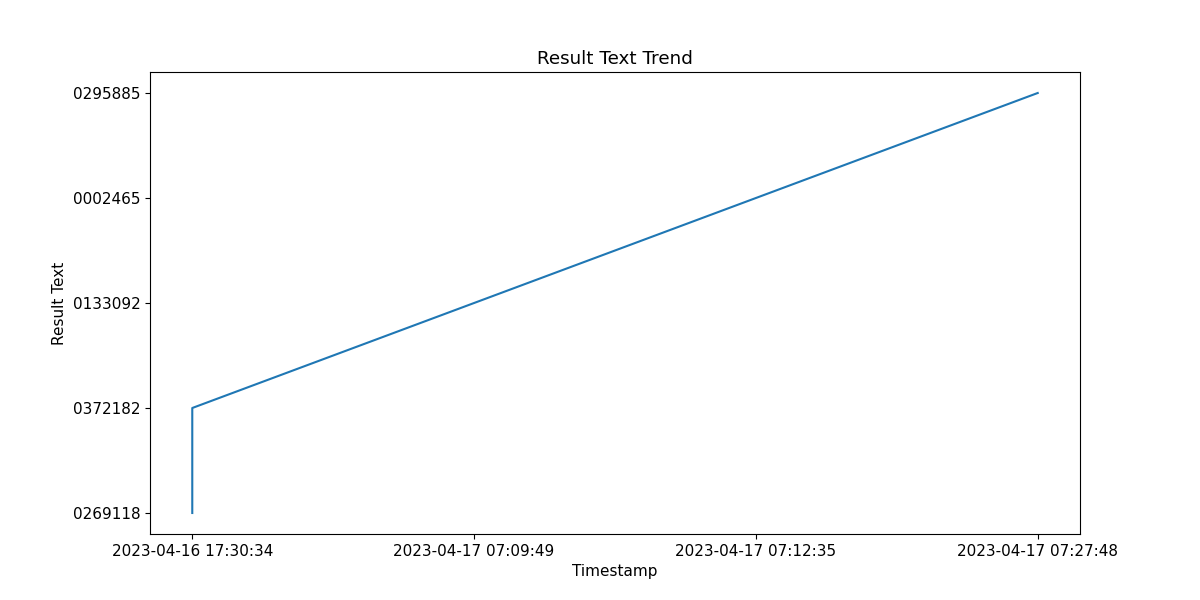
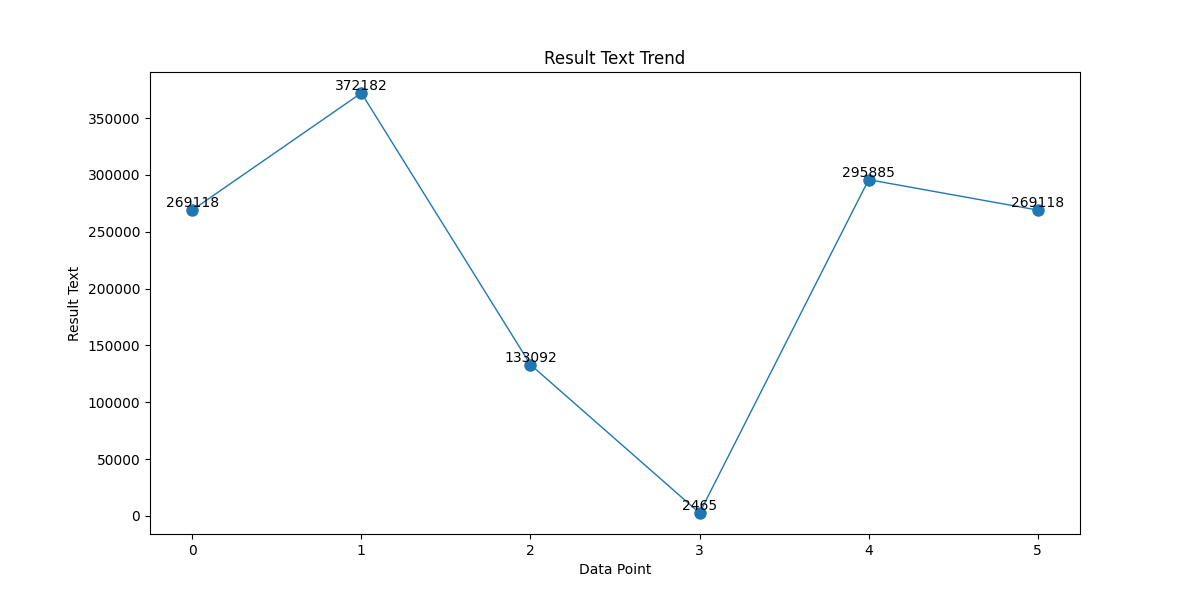
fixin trend line plot

diff --git a/app.py b/app.py
@@ -81,18 +81,18 @@ def index():
 @app.route("/history")
 def history():
     df = pd.read_csv("ocr_results.csv")
-    df = df.dropna(subset=['result_text'])  # drop rows with invalid data
-    df['result_text'] = df['result_text'].astype(str).str.zfill(7)
-
-    # sort data by timestamp
     df = df.sort_values(by=['timestamp'])
+    x = list(range(len(df)))
+    data = [int(val) for val in df['result_text'].iloc[:]]
 
-    # plot the line chart
     fig, ax = plt.subplots(figsize=(12, 6))
-    ax.plot(df['timestamp'], df['result_text'])
-    ax.set_xlabel('Timestamp')
+    ax.plot(x, data, marker='o', markersize=8,
+            linestyle='-', linewidth=1, label='Result Text')
+    ax.set_xlabel('Data Point')
     ax.set_ylabel('Result Text')
     ax.set_title('Result Text Trend')
+    for i, val in enumerate(data):
+        ax.text(x[i], data[i], str(val), ha='center', va='bottom')
 
     # save the plot to a file
     plot_path = 'static/result/plot.png'
